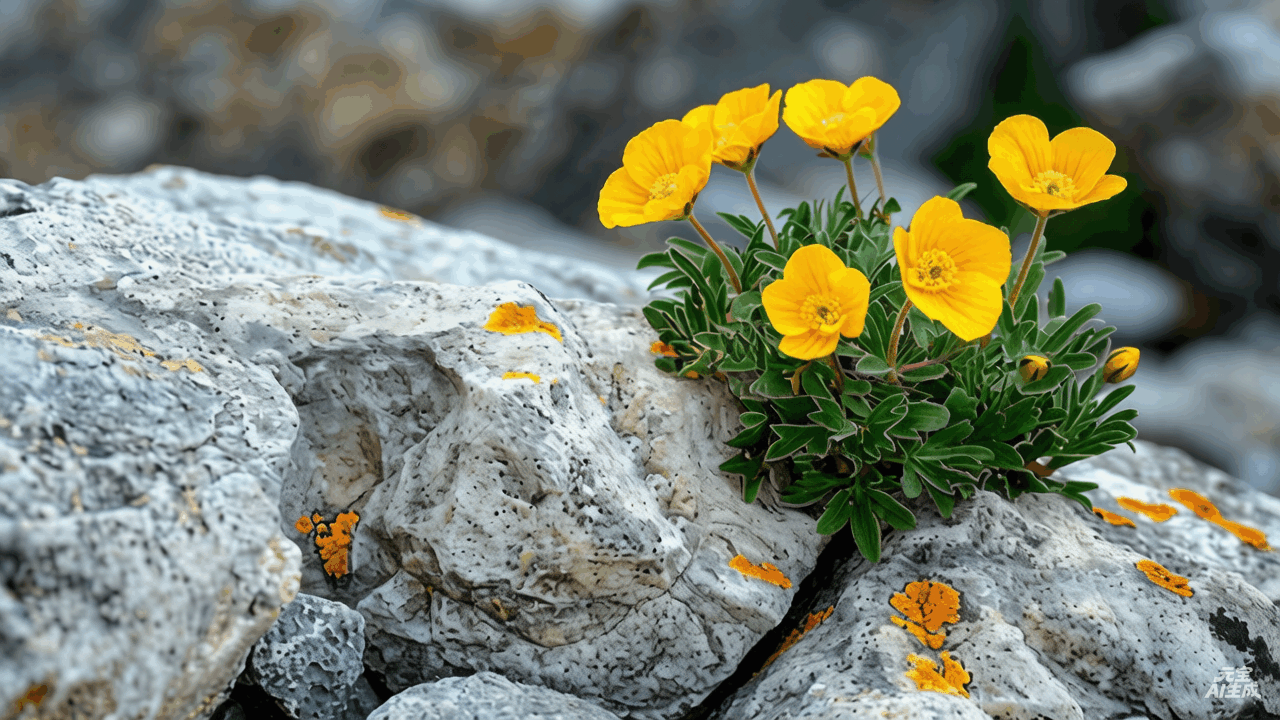
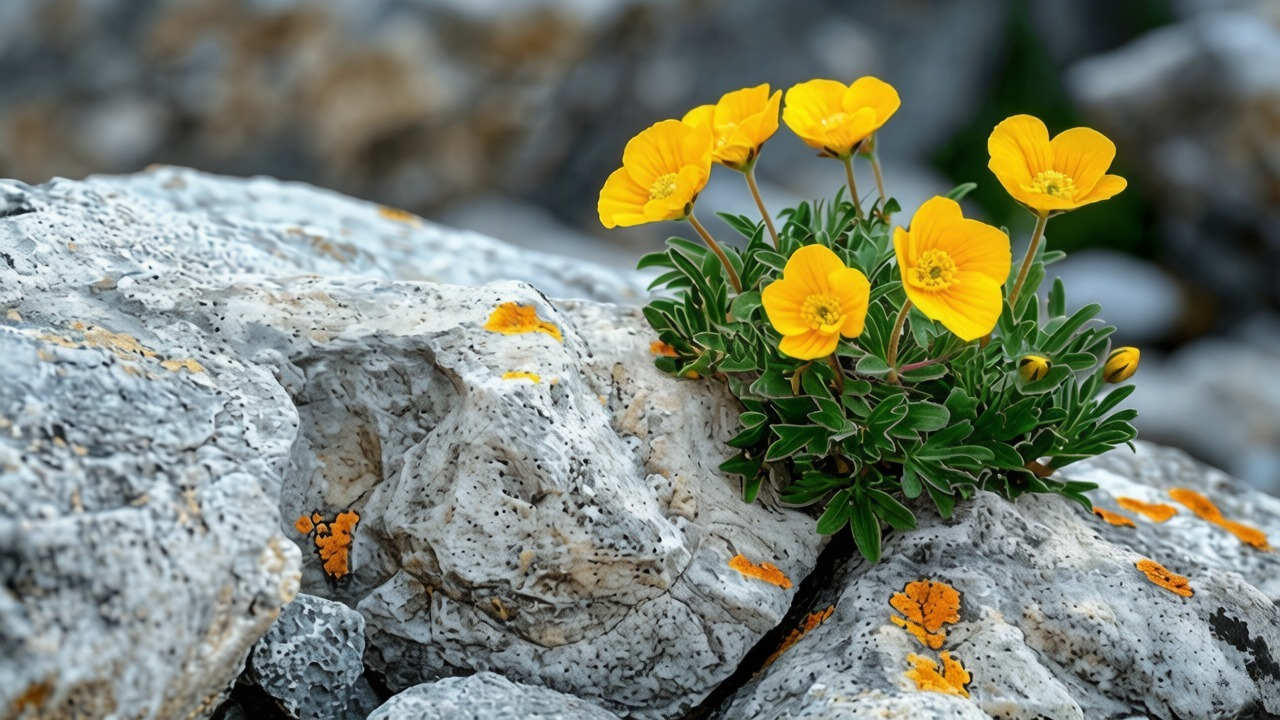
third push

diff --git a/app.js b/app.js
@@ -3,15 +3,25 @@ const {
 } = require('/component/iView/base/index');
 const mtjwxsdk = require('./utils/mtj-wx-sdk.js');
 
+// 地址常量区（缺失会直接 ReferenceError，务必整段保留）
+const ADDR_URL = 'https://coursera-addr.oss-cn-beijing.aliyuncs.com/addr-bloc.json'   // OSS 公告端点
+const DEFAULT_BASE_API = 'https://38d5e904.r16.vip.cpolar.cn'              // mini 后端兜底
+const DEFAULT_MAIN_API = 'https://3c21566.r16.vip.cpolar.cn'               // 知新堂后端兜底
+const ADDR_STORAGE_KEY = 'addr-announce-bloc-v2'
+
+// 启动自检：控制台必须打印出本行，否则说明常量区没复制全
+console.log('[addr] 初始化 | mini后端：', DEFAULT_BASE_API, '| 知新堂后端：', DEFAULT_MAIN_API)
+
 App({
   globalData: {
-    baseAPI: "http://localhost:8170",
-    // baseAPI: "http://192.168.188.1:8170",
-    // baseAPI: "https://4b08fa3e.r16.vip.cpolar.cn",
+    baseAPI: '',     // mini 后端地址（登录/注册等业务接口），由公告动态填充
+    mainAPI: '',     // 知新堂后端地址（checkMobile 校验用），由公告动态填充
     pageSize: 20
   },
-  onLaunch: function() {
+
+  onLaunch: function () {
     let _this = this
+    _this.initAddr()
     let token = wx.getStorageSync('token')
     if (null == token || token == '') {
       wx.login({
@@ -22,19 +32,13 @@ App({
             }).then(res => {
               if (res.code == 1) {
                 wx.setStorageSync('token', res.response)
-                wx.reLaunch({
-                  url: '/pages/index/index',
-                });
+                wx.reLaunch({ url: '/pages/index/index' })
               } else if (res.code == 2) {
-                wx.reLaunch({
-                  url: '/pages/user/bind/index',
-                });
+                wx.reLaunch({ url: '/pages/user/bind/index' })
               } else {
                 _this.message(res.message, 'error')
               }
-            }).catch(e => {
-              _this.message(e, 'error')
-            })
+            }).catch(e => { _this.message(e, 'error') })
           } else {
             _this.message(res.errMsg, 'error')
           }
@@ -42,70 +46,126 @@ App({
       })
     }
   },
-  message: function(content, type) {
+
+  // ===== 地址公告：初始化（幂等；先套本地缓存，再异步刷新）=====
+  initAddr: function () {
+    if (this._addrReady) return this._addrReady
+    try {
+      const cached = wx.getStorageSync(ADDR_STORAGE_KEY)
+      this.globalData.baseAPI = (cached && cached.backendUrl) || DEFAULT_BASE_API
+      this.globalData.mainAPI = (cached && cached.mainBackendUrl) || DEFAULT_MAIN_API
+    } catch (e) {
+      this.globalData.baseAPI = this.globalData.baseAPI || DEFAULT_BASE_API
+      this.globalData.mainAPI = this.globalData.mainAPI || DEFAULT_MAIN_API
+    }
+    this._addrReady = this._applyLatest().catch(() => {})
+    return this._addrReady
+  },
+
+  // 强制刷新（网络失败重试用）
+  refreshAddr: function () {
+    return this._applyLatest().catch(() => null)
+  },
+
+  _applyLatest: function () {
+    const _this = this
+    return new Promise(function (resolve, reject) {
+      wx.request({
+        url: ADDR_URL,
+        method: 'GET',
+        success: (res) => {
+          let rec = res.data
+          if (rec && rec.record && typeof rec.record === 'object') rec = rec.record
+          if (rec && rec.backendUrl) {
+            _this.globalData.baseAPI = rec.backendUrl
+            if (rec.mainBackendUrl) _this.globalData.mainAPI = rec.mainBackendUrl
+            wx.setStorageSync(ADDR_STORAGE_KEY, rec)
+            console.log('[addr] 公告已刷新：', JSON.stringify(rec))
+            resolve(rec)
+          } else {
+            reject(new Error('bad addr record'))
+          }
+        },
+        fail: reject
+      })
+    })
+  },
+
+  message: function (content, type) {
     $Message({
       content: content,
       type: type
     });
   },
-  formPost: function(url, data) {
-    let _this = this
-    return new Promise(function(resolve, reject) {
-      wx.showNavigationBarLoading();
-      wx.request({
-        url: _this.globalData.baseAPI + url,
-        header: {
-          'content-type': 'application/x-www-form-urlencoded',
-          'token': wx.getStorageSync('token')
-        },
-        method: 'POST',
-        data,
-        success(res) {
-          
-          if (res.statusCode !== 200 || typeof res.data !== 'object') {
-            reject('网络出错')
-            return false;
-          }
 
-          if (res.data.code === 400) {
-            let token = res.data.response
-            wx.setStorageSync('token', token)
-            wx.request({
-              url: _this.globalData.baseAPI + url,
-              header: {
-                'content-type': 'application/x-www-form-urlencoded',
-                'token': wx.getStorageSync('token')
-              },
-              method: 'POST',
-              data,
-              success(result) {
-                resolve(result.data);
-                return true;
-              }
-            })
-          } else if (res.data.code === 401) {
-            wx.reLaunch({
-              url: '/pages/user/bind/index',
-            });
+  formPost: function (url, data, _addrRetry) {
+    let _this = this
+    return _this.initAddr().then(() => {
+      return new Promise(function (resolve, reject) {
+        const usedBase = _this.globalData.baseAPI
+        wx.showNavigationBarLoading();
+        wx.request({
+          url: usedBase + url,
+          header: {
+            'content-type': 'application/x-www-form-urlencoded',
+            'token': wx.getStorageSync('token')
+          },
+          method: 'POST',
+          data,
+          success(res) {
+            if (res.statusCode !== 200 || typeof res.data !== 'object') {
+              reject('网络出错')
+              return false;
+            }
+            if (res.data.code === 400) {
+              let token = res.data.response
+              wx.setStorageSync('token', token)
+              wx.request({
+                url: _this.globalData.baseAPI + url,
+                header: {
+                  'content-type': 'application/x-www-form-urlencoded',
+                  'token': wx.getStorageSync('token')
+                },
+                method: 'POST',
+                data,
+                success(result) {
+                  resolve(result.data);
+                  return true;
+                }
+              })
+            } else if (res.data.code === 401) {
+              wx.reLaunch({ url: '/pages/user/bind/index' })
+              return false;
+            } else if (res.data.code === 500) {
+              reject(res.data.message)
+              return false;
+            } else if (res.data.code === 501) {
+              reject(res.data.message)
+              return false;
+            } else {
+              resolve(res.data);
+              return true;
+            }
+          },
+          fail(res) {
+            // 服务器不可达：刷新公告，mini 后端地址变了就自动重发一次（仅一次）
+            if (!_addrRetry) {
+              _this.refreshAddr().then(rec => {
+                if (rec && _this.globalData.baseAPI !== usedBase) {
+                  _this.formPost(url, data, true).then(resolve, reject)
+                } else {
+                  reject(res.errMsg)
+                }
+              })
+            } else {
+              reject(res.errMsg)
+            }
             return false;
-          } else if (res.data.code === 500) {
-            reject(res.data.message)
-            return false;
-          } else if (res.data.code === 501) {
-            reject(res.data.message)
-            return false;
-          } else {
-            resolve(res.data);
-            return true;
+          },
+          complete(res) {
+            wx.hideNavigationBarLoading();
           }
-        },
-        fail(res) {
-          reject(res.errMsg)
-          return false;
-        },
-        complete(res) {
-          wx.hideNavigationBarLoading();
-        }
+        })
       })
     })
   }

diff --git a/pages/exchange/index.js b/pages/exchange/index.js
@@ -3,6 +3,7 @@ const app = getApp()
 Page({
   data: {
     items: [],
+    loading: true,   // 控制加载状态
     loadError: false,
     errorMsg: ''
   },
@@ -10,9 +11,12 @@ Page({
     this.loadItems()
   },
   loadItems() {
+    // 每次加载前显示loading
+    this.setData({ loading: true })
+
     const token = wx.getStorageSync('token')
     if (!token) {
-      this.setData({ loadError: true, errorMsg: '请先登录' })
+      this.setData({ loading: false, loadError: true, errorMsg: '请先登录' })
       return
     }
     wx.showNavigationBarLoading()
@@ -26,16 +30,16 @@ Page({
       success: (res) => {
         wx.hideNavigationBarLoading()
         if (res.statusCode === 200 && res.data.code === 1) {
-          this.setData({ items: res.data.response, loadError: false })
+          this.setData({ items: res.data.response, loadError: false, loading: false })
         } else if (res.data.code === 401) {
-          this.setData({ loadError: true, errorMsg: '登录已过期，请重新登录' })
+          this.setData({ loadError: true, errorMsg: '登录已过期，请重新登录', loading: false })
         } else {
-          this.setData({ loadError: true, errorMsg: res.data.message || '加载失败' })
+          this.setData({ loadError: true, errorMsg: res.data.message || '加载失败', loading: false })
         }
       },
       fail: () => {
         wx.hideNavigationBarLoading()
-        this.setData({ loadError: true, errorMsg: '网络不可用' })
+        this.setData({ loadError: true, errorMsg: '网络不可用', loading: false })
       }
     })
   },
@@ -73,12 +77,13 @@ Page({
       }
     })
   },
-  viewPdf(e) {
-    const item = e.currentTarget.dataset.item;
-    if (!item || !item.pdfPath) return;
-    const fileName = item.pdfPath.split('/').pop();
-    wx.navigateTo({
-      url: '/pages/pdfview/index?url=' + encodeURIComponent(app.globalData.baseAPI + '/api/public/pdf/' + fileName)
-    });
+  viewPdf() {
+    // 不再跳转 PDF 预览，而是提示用户前往 Web 端查看
+    wx.showModal({
+      title: '提示',
+      content: '请前往 Web 端查看 PDF 文件',
+      showCancel: false,
+      confirmText: '我知道了'
+    })
   }
 })

diff --git a/pages/user/register/index.js b/pages/user/register/index.js
@@ -25,10 +25,10 @@ Page({
       return;
     }
 
-    // 先校验手机号是否在知新堂注册
+    // 先校验手机号是否在知新堂注册（走知新堂后端 mainAPI）
     checkMobile(form.userName).then(res => {
-      if (res.response === true) {
-        // 存在，继续注册
+      if (res.data && res.data.isRegistered === true) {
+        // 已在知新堂注册，继续小程序端注册
         _this.setData({ spinShow: true });
         app.formPost('/api/wx/student/user/register', form)
           .then(res => {
@@ -42,11 +42,15 @@ Page({
             _this.setData({ spinShow: false });
             app.message(e, 'error')
           })
-      } else {
+      } else if (res.data && res.data.isRegistered === false) {
+        // 真正的"查无此人"
         app.message('该手机号未在知新堂注册，请先在知新堂注册账号', 'error')
+      } else {
+        // 返回结构异常（防御，正常不会出现）
+        app.message(res.message || '校验服务异常，请稍后重试', 'error')
       }
-    }).catch(() => {
-      app.message('校验手机号失败', 'error')
+    }).catch((e) => {
+      app.message(typeof e === 'string' ? e : '校验手机号失败', 'error')
     })
   }
 })

diff --git a/utils/member.js b/utils/member.js
@@ -1,16 +1,22 @@
-const app = getApp()
+// 知新堂主站相关校验
+// 地址由公告 mainBackendUrl 动态下发（app.js 启动时填充 globalData.mainAPI）
+// 本常量仅作公告拉取失败时的兜底
+const DEFAULT_MAIN_API = 'https://3c21566.r16.vip.cpolar.cn'
 
 export function checkMobile(mobile) {
   return new Promise((resolve, reject) => {
+    const base = getApp().globalData.mainAPI || DEFAULT_MAIN_API
     wx.request({
-      url: app.globalData.baseAPI + '/user/ucenter/member/checkMobile/' + mobile,
+      url: base + '/user/ucenter/member/checkMobile/' + mobile,
       method: 'GET',
       header: { 'token': wx.getStorageSync('token') },
       success(res) {
-        if (res.statusCode === 200 && res.data) {
+        // 知新堂返回结构：{success, code:20000, message, data:{isRegistered}}
+        if (res.statusCode === 200 && res.data && res.data.code === 20000) {
           resolve(res.data)
         } else {
-          reject(res)
+          // 非 20000 一律视为服务异常走 catch，绝不静默放行成"未注册"
+          reject((res.data && res.data.message) || '校验服务异常')
         }
       },
       fail(err) {
